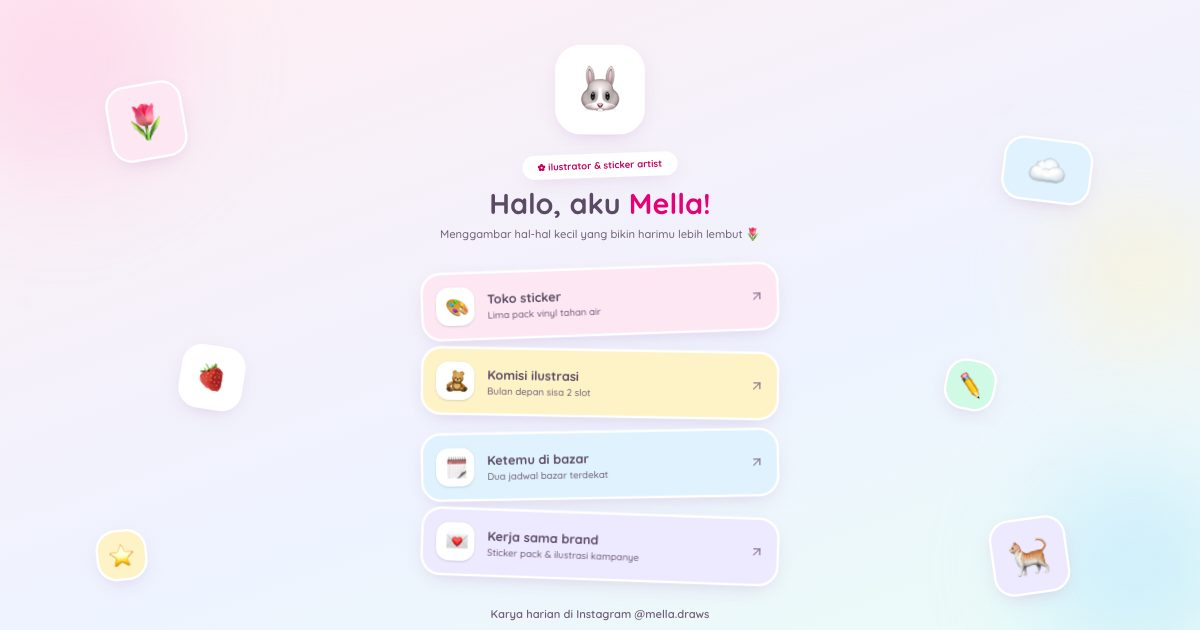
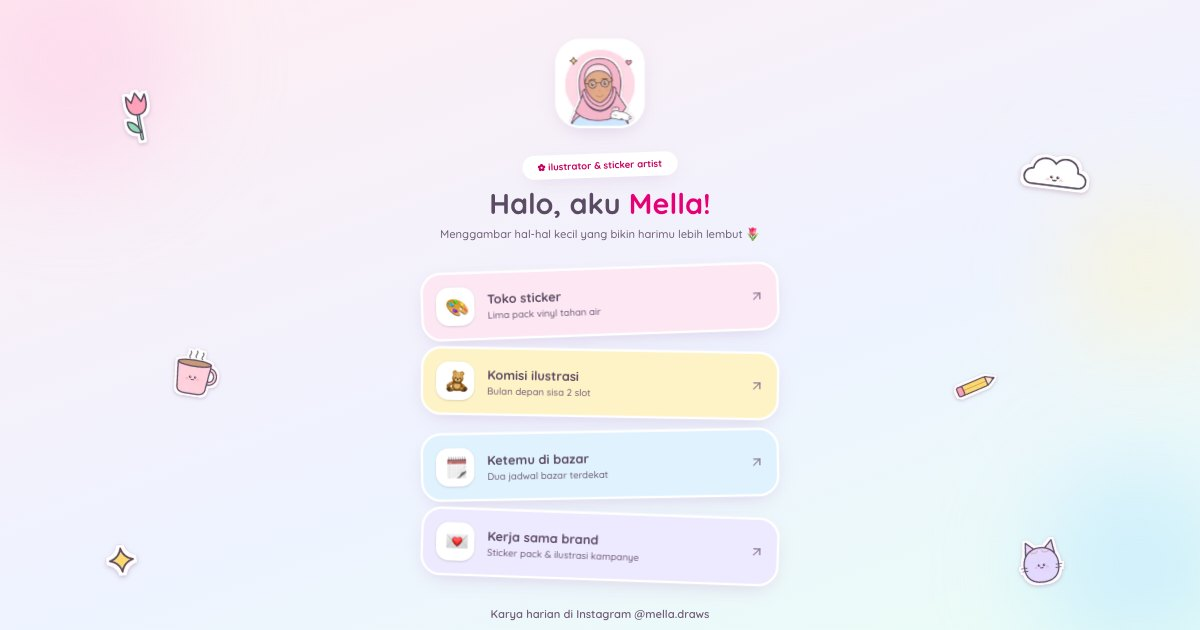
Tambah potret stiker Mella, lembar stiker produk, dan contoh komisi
- Emoji kelinci di beranda diganti potret stiker Mella (persona fiktif); papan
  stiker layar lebar kini memakai stiker buatan Mella sendiri
- Kelima pack di /toko bergambar lembar stikernya (Kebun Mini bertepi bening)
- /komisi punya "Contoh hasil" kepala, setengah badan, dan badan penuh
  (tokoh rekaan)
- Ilustrasi asli dicatat di public/images/SUMBER.md; gambar statis lewat
  scripts/static-images.mjs dengan <img srcset> server; og.jpg diperbarui

diff --git a/app/page.js b/app/page.js
@@ -1,14 +1,16 @@
 import Link from 'next/link';
+import Gambar from './components/Gambar';
 import { ArrowUpRight, Heart } from 'lucide-react';
 import { LINKS, PROFIL } from '@/lib/mella';
 
+// Papan stiker layar lebar: stiker buatan Mella sendiri (potongan dari pack di toko).
 const STIKER = [
-  { e: '🌷', c: 'h-24 w-24 bg-pink-100 text-5xl', s: { top: '12%', left: '9%', rotate: '-10deg' } },
-  { e: '☁', c: 'h-20 w-28 bg-sky-100 text-5xl', s: { top: '20%', right: '9%', rotate: '7deg' } },
-  { e: '🍓', c: 'h-20 w-20 bg-white text-4xl', s: { top: '50%', left: '15%', rotate: '9deg' } },
-  { e: '⭐', c: 'h-16 w-16 bg-amber-100 text-3xl', s: { bottom: '16%', left: '8%', rotate: '-6deg' } },
-  { e: '🐈', c: 'h-24 w-24 bg-violet-100 text-5xl', s: { bottom: '14%', right: '11%', rotate: '-8deg' } },
-  { e: '✏', c: 'h-16 w-16 bg-emerald-100 text-3xl', s: { top: '52%', right: '17%', rotate: '12deg' } },
+  { src: 'tulip', w: 76, h: 99, s: { top: '11%', left: '9%', rotate: '-10deg' } },
+  { src: 'awan', w: 124, h: 93, s: { top: '19%', right: '8%', rotate: '7deg' } },
+  { src: 'cangkir', w: 96, h: 90, s: { top: '49%', left: '13%', rotate: '9deg' } },
+  { src: 'bintang', w: 64, h: 64, s: { bottom: '15%', left: '8%', rotate: '-6deg' } },
+  { src: 'kucing', w: 96, h: 106, s: { bottom: '12%', right: '10%', rotate: '-8deg' } },
+  { src: 'pensil', w: 88, h: 88, s: { top: '51%', right: '16%', rotate: '12deg' } },
 ];
 
 export default function Home() {
@@ -22,13 +24,15 @@ export default function Home() {
       {/* Papan stiker: hiasan di tepi layar lebar */}
       <div className="pointer-events-none hidden lg:block" aria-hidden="true">
         {STIKER.map((t) => (
-          <span key={t.e} className={`sticker absolute grid place-items-center rounded-[1.6rem] ${t.c}`} style={t.s}>{t.e}</span>
+          <Gambar key={t.src} src={`/images/stiker/${t.src}.webp`} alt="" width={t.w} height={t.h} className="absolute h-auto" style={{ ...t.s, width: t.w }} />
         ))}
       </div>
 
       <div className="w-full max-w-md text-center">
-        <div className="rise" aria-hidden="true">
-          <div className="sticker bob mx-auto grid h-28 w-28 place-items-center rounded-[2rem] bg-white text-6xl">🐰</div>
+        <div className="rise">
+          <div className="sticker bob mx-auto h-28 w-28 overflow-hidden rounded-[2rem] bg-white">
+            <Gambar src="/images/mella.webp" alt="Potret ilustrasi Mella berkerudung merah muda dan berkacamata bulat, dengan stiker kelinci di bahu" width={112} height={112} loading="eager" className="h-full w-full object-cover" />
+          </div>
         </div>
 
         <div className="rise mt-6" style={{ animationDelay: '0.08s' }}>

diff --git a/app/komisi/page.js b/app/komisi/page.js
@@ -1,4 +1,5 @@
-import { BRAND, SITE } from '@/lib/mella';
+import { BRAND, JENIS, SITE, rp } from '@/lib/mella';
+import Gambar from '../components/Gambar';
 import { hariIniWIB } from '@/lib/waktu';
 import Kembali from '../components/Kembali';
 import FormKomisi from '../components/FormKomisi';
@@ -8,6 +9,12 @@ export const metadata = {
   title: 'Komisi Ilustrasi',
   description: 'Komisi ilustrasi Mella: slot per bulan, harga kepala/setengah badan/badan penuh dengan estimasi langsung, dan kerja sama brand.',
   alternates: { canonical: `${SITE}/komisi` },
+};
+
+const CONTOH = {
+  kepala: 'wajah berambut keriting dalam lingkaran',
+  setengah: 'perempuan berambut bob dan kemeja kuning',
+  penuh: 'tokoh mungil melambai bersama kucing',
 };
 
 export default function Komisi() {
@@ -23,6 +30,20 @@ export default function Komisi() {
         <section aria-labelledby="slot-h" className="mt-8">
           <h2 id="slot-h" className="sr-only">Slot per bulan</h2>
           <SlotKomisi hari={hari} />
+        </section>
+
+        <section aria-labelledby="contoh-h" className="mt-10">
+          <h2 id="contoh-h" className="text-2xl font-bold text-[#5b4a63]">Contoh hasil <span aria-hidden="true">✏</span></h2>
+          <p className="mt-1 text-sm font-medium text-[#6e5a75]">Tokoh di contoh ini rekaan — komisimu digambar dari foto yang kamu kirim.</p>
+          <ul className="mt-5 grid grid-cols-3 gap-3 sm:gap-5">
+            {JENIS.map((j, i) => (
+              <li key={j.id} className={`text-center ${['-rotate-2', 'rotate-1', '-rotate-1'][i]}`}>
+                <Gambar src={`/images/komisi/${j.id}.webp`} alt={`Contoh komisi ${j.nama.toLowerCase()}: ${CONTOH[j.id]}`} width={400} height={400} asli={800} sizes="(min-width: 672px) 200px, 30vw" className="sticker aspect-square w-full rounded-[1.4rem] bg-white object-cover" />
+                <p className="mt-2 text-sm font-bold leading-tight text-[#5b4a63]">{j.nama}</p>
+                <p className="text-xs font-semibold text-pink-700">{rp(j.harga)}</p>
+              </li>
+            ))}
+          </ul>
         </section>
 
         <FormKomisi hari={hari} />

diff --git a/lib/mella.js b/lib/mella.js
@@ -17,11 +17,11 @@ export const LINKS = [
 ];
 
 export const PACK = [
-  { id: 'kelinci', emoji: '🐰', nama: 'Kelinci Rebahan', isi: '12 sticker vinyl, matte', harga: 35000, stok: 24 },
-  { id: 'kopi', emoji: '☕', nama: 'Teman Ngopi', isi: '10 sticker vinyl, glossy', harga: 30000, stok: 18 },
-  { id: 'hujan', emoji: '🌧', nama: 'Musim Hujan', isi: '12 sticker + 1 kartu pos', harga: 42000, stok: 9 },
-  { id: 'kucing', emoji: '🐈', nama: 'Kucing Kantor', isi: '15 sticker vinyl, matte', harga: 45000, stok: 30 },
-  { id: 'bunga', emoji: '🌷', nama: 'Kebun Mini', isi: '8 sticker transparan', harga: 28000, stok: 0 },
+  { id: 'kelinci', gambar: '/images/pack/kelinci.webp', alt: 'Lembar stiker Kelinci Rebahan: tiga kelinci tidur dan rebahan, hati, dan bintang', emoji: '🐰', nama: 'Kelinci Rebahan', isi: '12 sticker vinyl, matte', harga: 35000, stok: 24 },
+  { id: 'kopi', gambar: '/images/pack/kopi.webp', alt: 'Lembar stiker Teman Ngopi: dua cangkir kopi tersenyum, croissant, dan biji kopi', emoji: '☕', nama: 'Teman Ngopi', isi: '10 sticker vinyl, glossy', harga: 30000, stok: 18 },
+  { id: 'hujan', gambar: '/images/pack/hujan.webp', alt: 'Lembar stiker Musim Hujan: awan hujan, payung, sepatu bot, pelangi, dan kartu pos', emoji: '🌧', nama: 'Musim Hujan', isi: '12 sticker + 1 kartu pos', harga: 42000, stok: 9 },
+  { id: 'kucing', gambar: '/images/pack/kucing.webp', alt: 'Lembar stiker Kucing Kantor: kucing berdasi, kucing di laptop, kucing dalam kardus, dan mug', emoji: '🐈', nama: 'Kucing Kantor', isi: '15 sticker vinyl, matte', harga: 45000, stok: 30 },
+  { id: 'bunga', gambar: '/images/pack/bunga.webp', alt: 'Lembar stiker transparan Kebun Mini: tiga tulip, pot bertunas, dan penyiram tanaman', emoji: '🌷', nama: 'Kebun Mini', isi: '8 sticker transparan', harga: 28000, stok: 0 },
 ];
 export const ONGKIR = 10000;
 export const GRATIS_ONGKIR = 100000;

diff --git a/app/components/Gambar.jsx b/app/components/Gambar.jsx
@@ -1,0 +1,33 @@
+import manifest from '@/image-manifest.json';
+
+// Gambar statis tanpa JavaScript klien: <img> biasa dengan srcset varian WebP buatan
+// scripts/static-images.mjs (peta hash di image-manifest.json, sama seperti image-loader.js).
+// width/height = ukuran tampil (px CSS); tanpa `sizes` dipakai deskriptor 1x/2x,
+// dengan `sizes` dipakai deskriptor lebar sampai `asli` (lebar berkas sumber).
+const LEBAR = [64, 128, 256, 384, 640, 828, 1080, 1280, 1920];
+const varian = (src, w) => {
+  const hash = manifest[src];
+  return hash ? `/_img${src.replace(/\.(png|jpe?g|webp)$/i, '')}.${hash}-${w}.webp` : src;
+};
+const naik = (w) => LEBAR.find((x) => x >= w) ?? LEBAR[LEBAR.length - 1];
+
+export default function Gambar({ src, alt, width, height, sizes, asli = 1920, priority = false, ...rest }) {
+  const srcSet = sizes
+    ? LEBAR.filter((w) => w <= naik(asli)).map((w) => `${varian(src, w)} ${w}w`).join(', ')
+    : `${varian(src, naik(width))} 1x, ${varian(src, naik(width * 2))} 2x`;
+  return (
+    // eslint-disable-next-line @next/next/no-img-element
+    <img
+      src={varian(src, naik(sizes ? Math.min(asli, 1080) : width * 2))}
+      srcSet={srcSet}
+      sizes={sizes}
+      alt={alt}
+      width={width}
+      height={height}
+      loading={priority ? 'eager' : 'lazy'}
+      fetchPriority={priority ? 'high' : undefined}
+      decoding="async"
+      {...rest}
+    />
+  );
+}

diff --git a/app/components/Keranjang.jsx b/app/components/Keranjang.jsx
@@ -2,6 +2,7 @@
 
 import { useState } from 'react';
 import { GRATIS_ONGKIR, ONGKIR, PACK, rp } from '@/lib/mella';
+import Gambar from './Gambar';
 
 const WARNA = ['bg-pink-100', 'bg-amber-100', 'bg-sky-100', 'bg-emerald-100', 'bg-violet-100'];
 
@@ -20,7 +21,7 @@ export default function Keranjang() {
         {PACK.map((p, i) => (
           <li key={p.id} className={`sticker rounded-[1.6rem] p-5 ${WARNA[i % WARNA.length]} ${i % 2 ? 'rotate-1' : '-rotate-1'}`}>
             <div className="flex items-start gap-4">
-              <span aria-hidden="true" className="grid h-14 w-14 shrink-0 place-items-center rounded-2xl bg-white text-3xl shadow-sm">{p.emoji}</span>
+              <Gambar src={p.gambar} alt={p.alt} width={96} height={96} className={`h-24 w-24 shrink-0 rounded-2xl border-[3px] border-white object-cover shadow-sm ${p.stok ? '' : 'opacity-70 grayscale-[35%]'}`} />
               <div className="flex-1">
                 <h2 className="font-bold text-[#5b4a63]">{p.nama}</h2>
                 <p className="text-xs font-medium text-[#6e5a75]">{p.isi}</p>

diff --git a/image-loader.js b/image-loader.js
@@ -1,0 +1,15 @@
+// Loader next/image untuk gambar statis: varian WebP di public/_img/ buatan skrip static-images (lihat
+// image-manifest.json). Tidak memakai Image Optimization Vercel, jadi tidak terikat kuota bulanan.
+// Lebar yang diminta selalu salah satu dari deviceSizes/imageSizes di next.config (= WIDTHS di bawah).
+// Gambar di luar manifest (SVG, GIF, URL luar, impor statis) dikembalikan apa adanya.
+import manifest from './image-manifest.json'
+
+const WIDTHS = [64,128,256,384,640,828,1080,1280,1920]
+
+export default function staticImageLoader({ src, width }) {
+  const hash = manifest[src]
+  if (!hash) return src
+  const w = WIDTHS.find((x) => x >= width) ?? WIDTHS[WIDTHS.length - 1]
+  const stem = src.slice("".length).replace(/\.(png|jpe?g|webp)$/i, '')
+  return `/_img${stem}.${hash}-${w}.webp`
+}

diff --git a/public/images/SUMBER.md b/public/images/SUMBER.md
@@ -1,0 +1,11 @@
+# Sumber gambar
+
+Semua gambar di folder ini adalah ilustrasi asli buatan PintuWeb (digambar lewat kode SVG, lalu diekspor ke WebP)
+dalam gaya stiker Mella. Tidak ada foto stok dan tidak ada wajah orang sungguhan; Mella dan tokoh contoh komisi fiktif.
+
+| Berkas | Isi | Sumber | Lisensi |
+| --- | --- | --- | --- |
+| mella.webp | Potret stiker Mella (berkerudung, kacamata bulat) | Ilustrasi asli PintuWeb | Milik PintuWeb |
+| pack/kelinci.webp, kopi.webp, hujan.webp, kucing.webp, bunga.webp | Lembar stiker lima pack di toko | Ilustrasi asli PintuWeb | Milik PintuWeb |
+| komisi/kepala.webp, setengah.webp, penuh.webp | Contoh hasil komisi (tokoh rekaan) | Ilustrasi asli PintuWeb | Milik PintuWeb |
+| stiker/*.webp | Stiker satuan untuk papan stiker beranda (layar lebar) | Ilustrasi asli PintuWeb | Milik PintuWeb |
